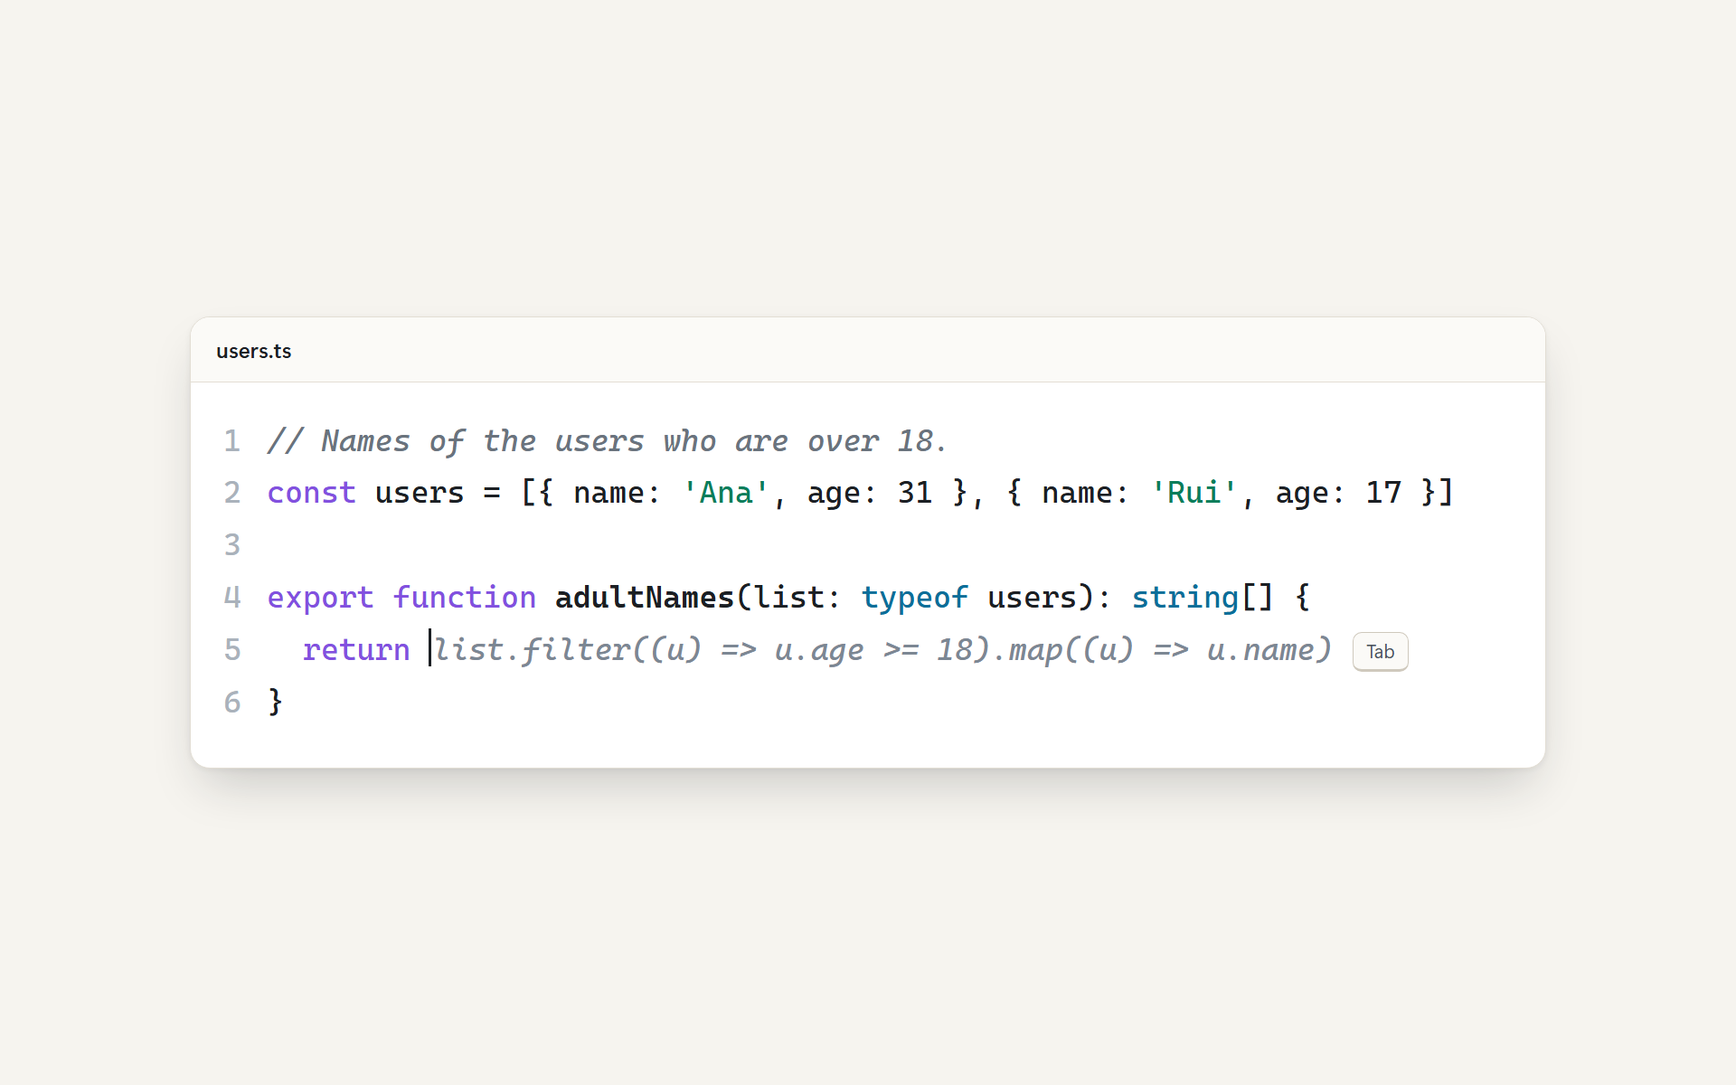
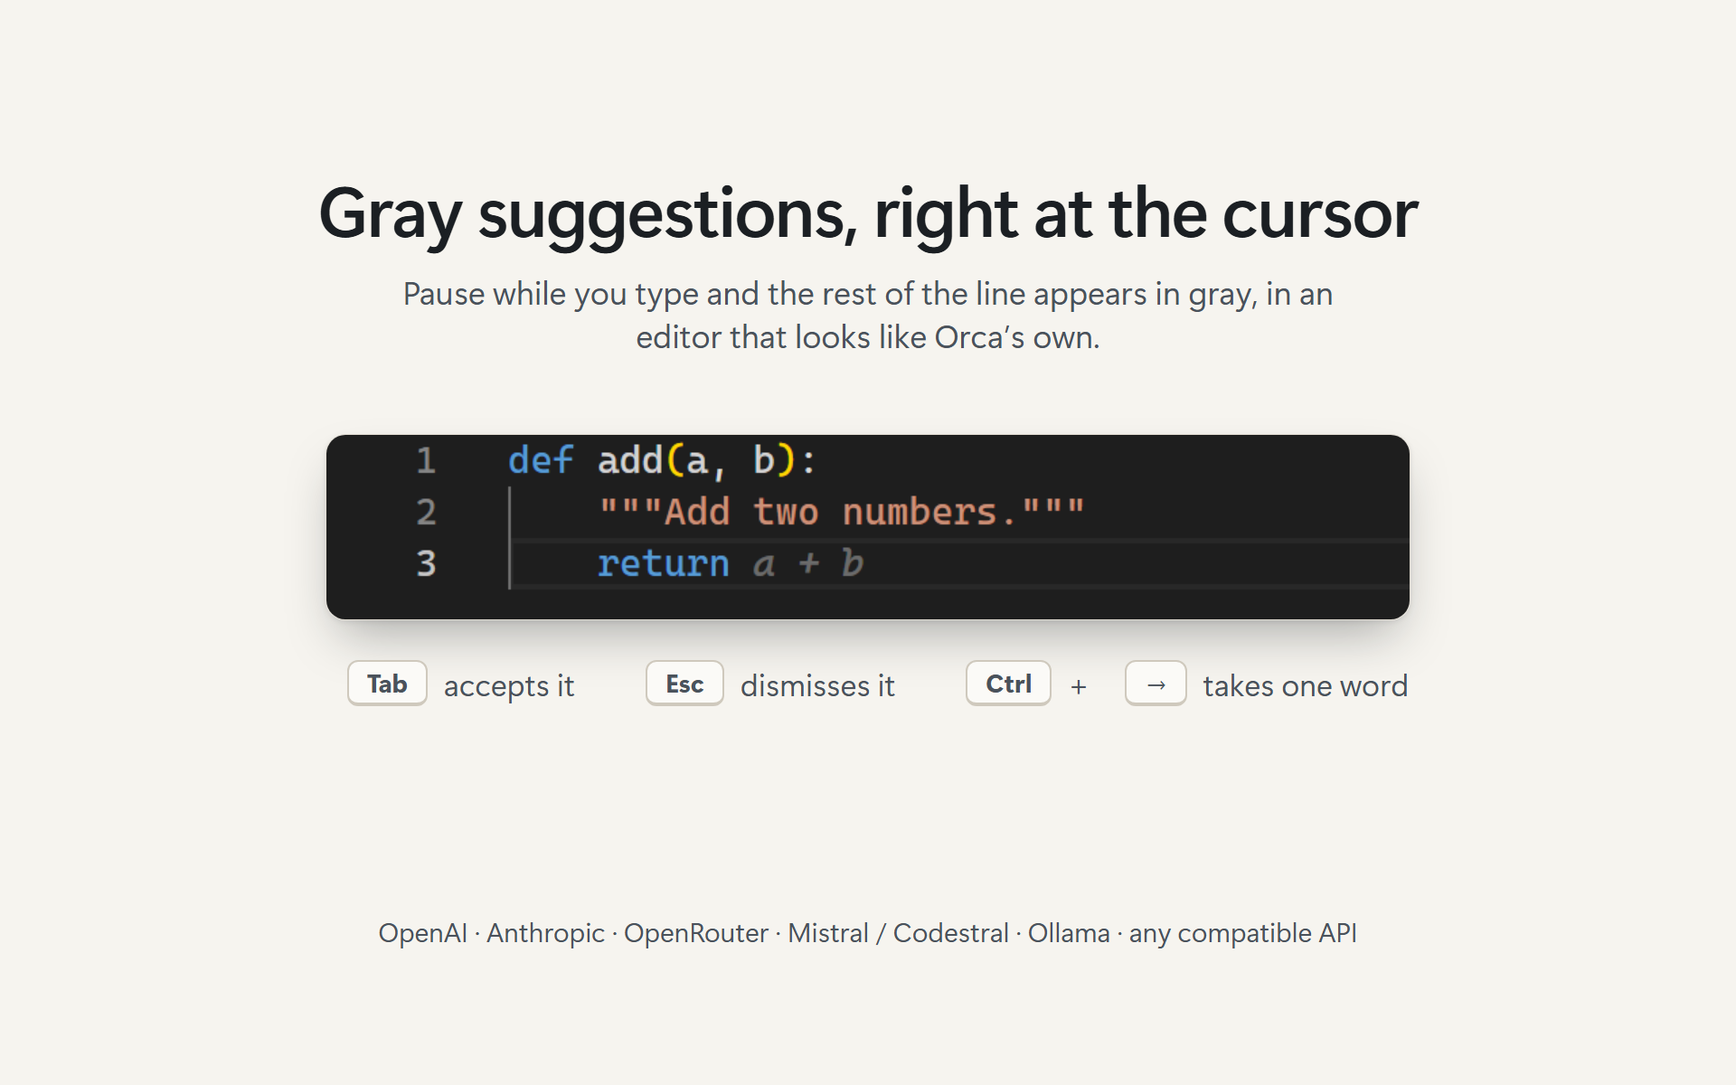
docs: real screenshots, a README that matches the plugin, and how to release
Listing
- The two screenshots are now real captures of Orca 1.4.255 taken in an isolated profile: the plugin's
  editor with a suggestion showing, and its panel. Each is placed, at its real size, on a 1920x1200 screen
  because the catalog asks for at least 1280x800 (the validator refused the raw captures). The earlier
  screenshot was an illustration drawn from a template. Captures are kept in assets/captures.
- The cover lists Mistral, and uses an entity instead of a literal middle dot.
- assets/build.mjs no longer regenerates anything it did not draw from nothing: icon, cover and the two
  screens that frame the captures.

README
- Install comes first, with the command that works today (orca plugin install ... --approve), and the
  Portuguese part has the same content as the English one: install, quick start, file types, providers,
  statistics, privacy, common problems.
- It says that .ts, .md, .yaml and .json open in Orca's own editor first and how to switch, and that Orca does
  not remember the choice.
- Privacy says "the kind of file" (the editor never receives the file's name), and that the panel shows where
  the code goes.
- Troubleshooting gains the Ollama refusal, gray text that is not code (a gateway injecting its own
  instructions) and no suggestions near a secret. Import insertion is credited to language servers, not to
  the built-in single-file TypeScript service.
- A Releasing section: version, checks, tag, and the orca-plugin topic.
[…]

diff --git a/assets/templates/shot-editor.html b/assets/templates/shot-editor.html
@@ -2,20 +2,27 @@
 <meta charset="utf-8">
 <link rel="stylesheet" href="base.css">
 <style>
-  body { width: 1920px; height: 1200px; display: grid; place-items: center; }
-  .editor { width: 1500px; }
-  .code { font-size: 34px; padding: 36px 0 44px; }
-  .tab { height: 72px; font-size: 24px; }
+  body { width: 1920px; height: 1200px; position: relative; overflow: hidden; }
+  .copy { position: absolute; left: 160px; top: 190px; width: 1600px; display: flex; flex-direction: column; gap: 26px; align-items: center; text-align: center; }
+  h2 { font-size: 78px; font-weight: 620; letter-spacing: -0.025em; line-height: 1.05; }
+  .lede { font-size: 36px; line-height: 1.35; color: var(--ink-2); max-width: 1100px; }
+  /* A real capture of the plugin's editor in Orca, shown at 1.5 times its pixels. */
+  .shot { position: absolute; left: 360px; top: 480px; width: 1200px; border-radius: 22px; overflow: hidden;
+    border: 1px solid var(--line); box-shadow: 0 28px 56px -16px rgba(27, 31, 35, 0.35), 0 2px 6px rgba(27, 31, 35, 0.08); }
+  .shot img { display: block; width: 1200px; }
+  .keys { position: absolute; left: 160px; width: 1600px; top: 730px; display: flex; justify-content: center; gap: 56px; font-size: 34px; color: var(--ink-2); align-items: center; }
+  .keys span { display: inline-flex; align-items: center; gap: 18px; }
+  .key { font-size: 28px; color: var(--ink-2); border: 2px solid #cfc9bd; border-bottom-width: 4px; border-radius: 12px; padding: 4px 20px; background: #fbfaf7; }
+  .foot { position: absolute; left: 160px; width: 1600px; text-align: center; bottom: 150px; font-size: 30px; color: var(--ink-2); }
 </style>
-<div class="editor">
-  <div class="tab"><b>users.ts</b></div>
-  <div class="code">
-    <div class="line"><span class="no">1</span><span><span class="cm">// Names of the users who are over 18.</span></span></div>
-    <div class="line"><span class="no">2</span><span><span class="kw">const</span> users = [{ name: <span class="str">'Ana'</span>, age: 31 }, { name: <span class="str">'Rui'</span>, age: 17 }]</span></div>
-    <div class="line"><span class="no">3</span><span></span></div>
-    <div class="line"><span class="no">4</span><span><span class="kw">export function</span> <span class="fn">adultNames</span>(list: <span class="ty">typeof</span> users): <span class="ty">string</span>[] {</span></div>
-    <div class="line"><span class="no">5</span><span>  <span class="kw">return</span> <span class="caret"></span><span class="ghost">list.filter((u) =&gt; u.age &gt;= 18).map((u) =&gt; u.name)</span><span class="key">Tab</span></span></div>
-    <div class="line"><span class="no">6</span><span>}</span></div>
-  </div>
+<div class="copy">
+  <h2>Gray suggestions, right at the cursor</h2>
+  <p class="lede">Pause while you type and the rest of the line appears in gray, in an editor that looks like Orca&rsquo;s own.</p>
 </div>
-<style>.str { color: #0a7d5a; }</style>
+<div class="shot"><img src="../captures/editor.png" alt=""></div>
+<div class="keys">
+  <span><b class="key">Tab</b> accepts it</span>
+  <span><b class="key">Esc</b> dismisses it</span>
+  <span><b class="key">Ctrl</b>+<b class="key">&rarr;</b> takes one word</span>
+</div>
+<p class="foot">OpenAI &middot; Anthropic &middot; OpenRouter &middot; Mistral / Codestral &middot; Ollama &middot; any compatible API</p>

diff --git a/assets/templates/shot-panel.html b/assets/templates/shot-panel.html
@@ -1,0 +1,26 @@
+<!doctype html>
+<meta charset="utf-8">
+<link rel="stylesheet" href="base.css">
+<style>
+  body { width: 1920px; height: 1200px; position: relative; overflow: hidden; }
+  .copy { position: absolute; left: 160px; top: 0; bottom: 0; width: 760px; display: flex; flex-direction: column; justify-content: center; gap: 36px; }
+  h2 { font-size: 78px; font-weight: 620; letter-spacing: -0.025em; line-height: 1.05; }
+  .lede { font-size: 36px; line-height: 1.35; color: var(--ink-2); }
+  ul { list-style: none; padding: 0; display: flex; flex-direction: column; gap: 22px; font-size: 32px; line-height: 1.35; color: var(--ink-2); }
+  li { display: flex; gap: 20px; }
+  li::before { content: ""; flex: none; width: 14px; height: 14px; margin-top: 16px; border-radius: 50%; background: var(--accent); }
+  /* A real capture of the plugin's panel in Orca, shown at 1.4 times its pixels. */
+  .shot { position: absolute; left: 1000px; top: 330px; width: 760px; border-radius: 22px; overflow: hidden;
+    border: 1px solid var(--line); box-shadow: 0 28px 56px -16px rgba(27, 31, 35, 0.35), 0 2px 6px rgba(27, 31, 35, 0.08); }
+  .shot img { display: block; width: 760px; }
+</style>
+<div class="copy">
+  <h2>Know where your code goes</h2>
+  <p class="lede">The panel says it plainly, and code that looks like a secret is not sent.</p>
+  <ul>
+    <li>Nothing is sent while the AI is off or not set up.</li>
+    <li>Ollama and other servers on this computer keep your code here.</li>
+    <li>Any other provider is named, host and all.</li>
+  </ul>
+</div>
+<div class="shot"><img src="../captures/panel.png" alt=""></div>

diff --git a/assets/templates/cover.html b/assets/templates/cover.html
@@ -24,7 +24,7 @@
   </svg>
   <h1>Autocomplete</h1>
   <p class="tag">Gray suggestions as you type, from the AI you choose.</p>
-  <p class="providers"><span>OpenAI</span><i>·</i><span>Anthropic</span><i>·</i><span>OpenRouter</span><i>·</i><span>Ollama</span><i>·</i><span>any compatible API</span></p>
+  <p class="providers"><span>OpenAI</span><i>&middot;</i><span>Anthropic</span><i>&middot;</i><span>OpenRouter</span><i>&middot;</i><span>Mistral</span><i>&middot;</i><span>Ollama</span><i>&middot;</i><span>any compatible API</span></p>
 </div>
 <div class="editor">
   <div class="tab"><b>add.ts</b></div>

diff --git a/README.md b/README.md
@@ -6,20 +6,27 @@ Gray suggestions as you type, from the AI provider you choose. Press **Tab** to 
 
 Works with **OpenAI**, **Anthropic**, **OpenRouter**, **Mistral / Codestral**, **Ollama** (free, on your computer) and any API that speaks the OpenAI or Anthropic format.
 
-> **Requires Orca 1.4.248 or newer.** The plugin brings its own editor (Monaco), so it does not depend on any change to Orca itself.
+## Install
 
-<p align="center"><img src="assets/screenshot-editor.png" alt="A gray suggestion at the cursor, with a Tab key hint" width="720"></p>
+```sh
+orca plugin install actus7/orca-autocomplete
+```
+
+Orca lists what the plugin asks for and prints a fingerprint. Accept it by running the same command again with `--approve <fingerprint>`. You can also install it from *Settings → Plugins*.
+
+> **Requires Orca 1.4.248 or newer** (tested on 1.4.255). The plugin brings its own editor (Monaco), so it does not depend on any change to Orca itself.
+
+<p align="center"><img src="assets/screenshot-editor.png" alt="A Python function in the Autocomplete editor where the gray suggestion a + b follows the cursor after return" width="820"></p>
 
 ## Quick start
 
 It takes about two minutes.
 
-1. **Install** the plugin from *Settings → Plugins*, or from a terminal: `orca plugin install actus7/orca-autocomplete`. Orca shows what the plugin asks for and a fingerprint; run the same command again with `--approve <fingerprint>` to accept it.
-2. **Open the Autocomplete panel**: the lightning icon in the right sidebar.
-3. **Choose your provider**, paste your API key, then type a model name or pick one from the list your provider offers. Press **Save and test**. Ollama needs no key.
-4. **Open a code file and pause while typing.** The suggestion appears in gray.
+1. **Open the Autocomplete panel**: the lightning icon in the right sidebar.
+2. **Choose your provider**, paste your API key, then pick a model from the list your provider offers or type its name. Press **Save and test**. Ollama needs no key.
+3. **Open a code file and pause while typing.** The suggestion appears in gray.
 
-Files in the languages below open in the plugin's editor by default. Files Orca always opens itself (`.ts`, `.md`, `.yaml`, `.env` and a few more) stay in Orca's editor; switch them with the view toggle in the file's tab.
+**Which files open in this editor.** Files in the languages listed below open in the plugin's editor by default. A few types are always opened by Orca's own editor first: `.ts`, `.md`, `.yaml`, `.json`, `.env` and some more. For those, switch with the view toggle at the top right of the file's tab. Orca does not remember that choice, so you switch again for the next file.
 
 ## The editor
 
@@ -29,11 +36,13 @@ A full code editor (Monaco, the engine behind VS Code) that follows Orca's theme
 - **Follows your Orca settings:** font and size (including the terminal-font fallback and the editor zoom), weight, line height, ligatures, line wrapping and the minimap are read from Orca's own settings, so the plugin's editor and Orca's, side by side, look the same, and a change you make in Orca (*Settings → General*, or the file menu's *Line wrap*) shows up in the plugin's editor within a couple of seconds. The minimap is off until you turn it on in Orca, then it is on in both. This needs a recent Orca on this computer; when Orca's settings cannot be read, or if you turn off *Match Orca's editor*, the four editor settings of this plugin apply instead.
 - **Languages with their own editor:** TypeScript, JavaScript, Python, Go, Rust, Java, Kotlin, C#, C and C++, PHP, Ruby, Swift, Shell, SQL, HTML. A **Code** editor handles CSS, SCSS, Less, XML, YAML, Markdown, Dart, Lua, R, PowerShell, Batch, Scala, Elixir, Clojure, Perl, F#, Julia, Terraform, Protocol Buffers, GraphQL and Dockerfile, recognising the language from the file's content.
 - **Documents:** Markdown and text files (`.md`, `.txt`) get suggestions written as prose, in the language of the text around the cursor: the rest of the sentence, or one more short sentence, never a block of code.
-- **Built in, nothing to install:** errors, completion, hover, go to definition and rename for TypeScript and JavaScript, HTML and CSS.
-- **Language servers:** if a language server is installed on your computer (`rust-analyzer`, `gopls`, `pyright`, `clangd`, `typescript-language-server`, `kotlin-language-server`, `csharp-ls`, `intelephense`, `solargraph`, `sourcekit-lsp`, `bash-language-server`, `lua-language-server`, `yaml-language-server`, Dart's), the plugin starts it for files inside an Orca workspace and adds its errors, completion, hover, signature help, definitions, references, outline, formatting, rename and quick fixes. Turn it off in *Settings → Plugins → Autocomplete → Use language servers*. If the server cannot start, a red note in the editor's corner says why.
+- **Built in, nothing to install:** errors, completion, hover, go to definition and rename for TypeScript and JavaScript, HTML and CSS, within the open file.
+- **Language servers:** if a language server is installed on your computer (`rust-analyzer`, `gopls`, `pyright`, `clangd`, `typescript-language-server`, `kotlin-language-server`, `csharp-ls`, `intelephense`, `solargraph`, `sourcekit-lsp`, `bash-language-server`, `lua-language-server`, `yaml-language-server`, Dart's), the plugin starts it for files inside an Orca workspace and adds its errors, completion (picking a symbol from another file inserts its import), hover, signature help, definitions, references, outline, formatting, rename and quick fixes. Turn it off in *Settings → Plugins → Autocomplete → Use language servers*. If the server cannot start, a red note in the editor's corner says why.
 - **Limits:** a language server needs the file to be inside a local Orca workspace (remote hosts are not reached). Definitions and renames that touch other files are not followed yet. TypeScript needs the project's own `typescript` package in `node_modules`.
 
 If something is not right, the panel says what happened and what to do next.
+
+<p align="center"><img src="assets/screenshot-panel.png" alt="The Autocomplete panel in Orca: active, running on this computer, with the provider settings, statistics and help sections collapsed" width="820"></p>
 
 ## Choose a provider
 
@@ -73,30 +82,52 @@ The panel has a **Statistics** block for the model you use: how many suggestions
 
 ## Privacy
 
-When you pause typing, the text around your cursor (up to about 6,000 characters before it and 2,000 after, plus the file name and language) is sent to the provider **you** chose, and nowhere else. If that text holds something that looks like a key, a token, a private key or a password in a web address, **nothing is sent** and there is no suggestion at that spot. Your API key is stored encrypted by Orca and is tied to the provider it was saved for: if you switch providers, the panel asks for a new key, and the old one is never sent to the new one. Language servers run on your computer and nothing from them is sent anywhere. The panel always says where that text goes: nowhere (the AI is off or not set up), this computer (Ollama or another server on localhost), or the host of the provider you chose. A server elsewhere on your network counts as remote. The statistics are counted and kept on your computer only. The plugin has no telemetry and no analytics. Turn it off any time from the panel or the status bar.
+When you pause typing, the text around your cursor (up to about 6,000 characters before it and 2,000 after, plus the kind of file) is sent to the provider **you** chose, and nowhere else. If that text holds something that looks like a key, a token, a private key or a password in a web address, **nothing is sent** and there is no suggestion at that spot. Your API key is stored encrypted by Orca and is tied to the provider it was saved for: if you switch providers, the panel asks for a new key, and the old one is never sent to the new one. Language servers run on your computer and nothing from them is sent anywhere. The panel always says where that text goes: nowhere (the AI is off or not set up), this computer (Ollama or another server on localhost), or the host of the provider you chose. A server elsewhere on your network counts as remote. The statistics are counted and kept on your computer only. The plugin has no telemetry and no analytics. Turn it off any time from the panel or the status bar.
 
 ## Troubleshooting
 
 | What you see | What to do |
 | --- | --- |
 | Nothing appears | Pause for a moment after typing. Check that the status bar icon is green. Not every spot gets a suggestion. |
+| No suggestions in a `.ts`, `.md`, `.yaml` or `.json` file | Orca opened it in its own editor. Use the view toggle at the top right of the file's tab. |
+| No suggestion near a key, token or password | By design: nothing is sent while such text is around the cursor. |
 | "The provider rejected the key" | Paste the key again in the panel and press **Save and test**. Check that it belongs to the provider you picked. |
 | "Model or address not found" | Check the model name and, for the *Other* providers, the base URL. |
 | "Could not reach … Is the server running?" | For Ollama, start it. Otherwise check the address and your connection. |
+| "The server refused the request" (Ollama) | The model cannot fill in the middle of code. Pick a code model such as `qwen2.5-coder`, or use *Other (OpenAI-compatible)*. |
 | Yellow "slow" | Pick a smaller model, or one hosted closer to you. |
 | "Rate limit reached" | Wait a moment, or pick another model. |
+| Gray text that is not code (notes, odd tags) | Your gateway adds instructions of its own to every request. The plugin drops tool-call markup, but a route without injected prompts gives better suggestions. |
 
 ## Português (pt-BR)
 
 O painel, a barra de status e os avisos aparecem em português quando o Orca está em pt-BR.
 
-**Começo rápido**
-1. Instale o plugin em *Settings → Plugins*.
-2. Abra o painel **Autocomplete** (o raio na barra lateral direita).
-3. Escolha o provedor, cole a chave de API, depois digite o nome de um modelo ou escolha na lista do seu provedor. Toque em **Salvar e testar**. O Ollama não precisa de chave.
-4. Digite em qualquer arquivo e faça uma pausa. A sugestão aparece em cinza; **Tab** aceita e **Esc** descarta.
+**Instalação**
 
-**Privacidade:** o texto ao redor do cursor vai apenas para o provedor que você escolheu, e nada é enviado se ele parecer conter uma chave, um token ou uma senha. A chave fica guardada criptografada pelo Orca. As estatísticas do painel ficam só no seu computador. Não há rastreamento.
+```sh
+orca plugin install actus7/orca-autocomplete
+```
+
+O Orca mostra o que o plugin pede e um *fingerprint*. Para aceitar, rode o mesmo comando de novo com `--approve <fingerprint>`. Também dá para instalar em *Settings → Plugins*. Requer o Orca 1.4.248 ou mais novo.
+
+**Começo rápido**
+1. Abra o painel **Autocomplete** (o raio na barra lateral direita).
+2. Escolha o provedor, cole a chave de API, depois escolha um modelo na lista do seu provedor ou digite o nome. Toque em **Salvar e testar**. O Ollama não precisa de chave.
+3. Digite em um arquivo de código e faça uma pausa. A sugestão aparece em cinza; **Tab** aceita e **Esc** descarta.
+
+**Quais arquivos abrem neste editor.** Os arquivos das linguagens listadas acima abrem no editor do plugin por padrão. Alguns tipos são sempre abertos antes pelo editor do próprio Orca: `.ts`, `.md`, `.yaml`, `.json`, `.env` e alguns outros. Neles, troque pelo seletor de visualização no canto superior direito da aba do arquivo. O Orca não lembra a escolha, então a troca vale para um arquivo por vez.
+
+**Provedores.** OpenAI, Anthropic, OpenRouter, Mistral / Codestral, Ollama e qualquer API compatível com OpenAI ou Anthropic. O Ollama e a Mistral recebem o texto antes e o texto depois do cursor e preenchem o trecho do meio; os demais respondem como chat. Use um modelo pequeno e rápido: uma sugestão que passa de 1,8 s é descartada.
+
+**Estatísticas.** O painel mostra, para o modelo em uso, quantas sugestões foram mostradas, aceitas (inteiras ou por palavra), mantidas após 30 s, removidas depois, tardias, e o tempo de resposta. Tudo fica só no seu computador, e **Limpar estatísticas** zera.
+
+**Privacidade:** o texto ao redor do cursor vai apenas para o provedor que você escolheu, e nada é enviado se ele parecer conter uma chave, um token ou uma senha. O painel sempre diz para onde o texto vai: nenhum lugar (IA desligada ou não configurada), este computador (Ollama ou outro servidor no localhost) ou o host do provedor. A chave fica guardada criptografada pelo Orca e só vale para o provedor em que foi salva. Não há rastreamento.
+
+**Problemas comuns**
+- *Nada aparece em um arquivo `.ts`, `.md`, `.yaml` ou `.json`:* ele abriu no editor do Orca; use o seletor de visualização.
+- *"O servidor recusou o pedido" (Ollama):* o modelo não completa no meio do código; escolha um modelo de código, como o `qwen2.5-coder`, ou use *Outro (compatível com OpenAI)*.
+- *Texto cinza que não é código:* o seu roteador injeta instruções próprias em cada pedido. O plugin descarta marcação de chamada de ferramenta, mas uma rota sem prompts injetados dá sugestões melhores.
 
 ## For developers
 
@@ -117,8 +148,18 @@ The plugin asks Orca for: its own settings, secrets and storage; and `workspace:
 
 To match Orca's editor, the worker opens Orca's profile database **read-only** and reads two documents from it: the editor `settings` and the `ui` state that holds the editor zoom. Nothing else in that database is read, nothing is written, and nothing is sent anywhere. Orca has no API for this yet; if one appears, the plugin will use it.
 
-The listing images are rendered from `assets/templates` with `assets/build.mjs` (needs Playwright; see the header of that file).
+### Images
+
+`assets/build.mjs` draws the icon and the cover, and places the two real captures in `assets/captures` (the editor with a suggestion showing, and the panel) on the 1920x1200 screens of the listing (the catalog asks for at least 1280x800). It needs Playwright; see the header of that file.
+
+### Benchmark
 
 `bench/` measures a provider and model on this repository's own code (cuts a line inside code, asks for the rest, compares with what was there), so a change can be judged by numbers. It sends pieces of the files to the provider you name; a remote one needs `--yes`. `node bench/compare.mjs a.json b.json` compares two runs made with the same `--seed` and `--samples` place by place and says whether a difference is more than chance. `--context graph` adds an experiment: the declarations from other files that the code nearby uses, read from a [CodeGraph](https://github.com/colbymchenry/codegraph) index (`codegraph init` first; the `.codegraph/` folder is not committed).
+
+### Releasing
+
+1. Set the version in `orca-plugin.json`, then `npm run build`, `npm test`, `npm run test:browser` and `orca plugin validate .`.
+2. Commit, then tag the commit `vX.Y.Z` and push the tag. The tag is what the catalog lists, and a listed version is permanent, so tag only a commit you have tried in Orca.
+3. Give the repository the `orca-plugin` topic. The catalog finds public repositories by that topic and lists each version from its tag; there is no pull request to open.
 
 MIT licensed.
